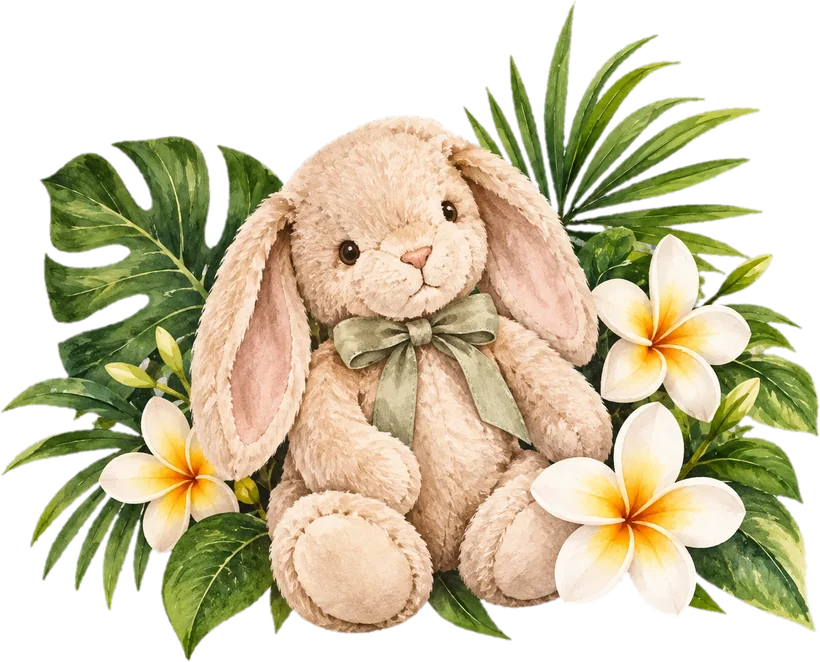
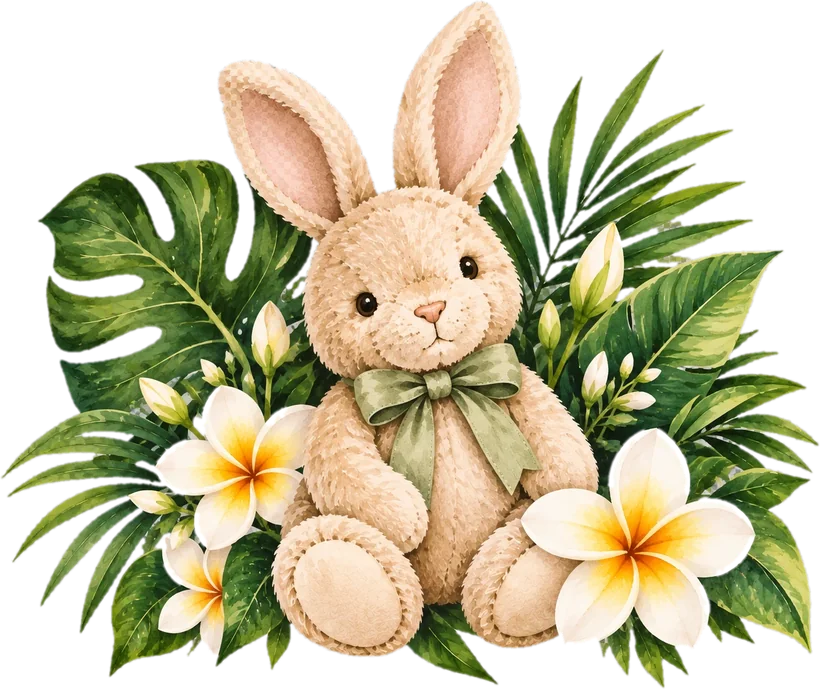
Adults-only card: the ears-up bunny, matching the FAQ
Claude-Session: https://claude.ai/code/session_01GqK2ENqeRUwQmtgcSZFd9X

diff --git a/index.html b/index.html
@@ -923,7 +923,7 @@ html.has-lightbox{overflow:hidden}
 <section class="section" id="adults">
   <div class="inner">
     <span class="eyebrow">05 — A note on children</span>
-    <img class="arch-art" data-src="assets/adults-bunny.webp" alt="" width="820" height="662" loading="lazy" decoding="async">
+    <img class="arch-art" data-src="assets/adults-bunny.webp" alt="" width="820" height="689" loading="lazy" decoding="async">
     <h2>Adults only</h2>
     <p class="lede">With love for all the little ones in our lives, our wedding weekend will be an adults-only celebration. We hope the occasion feels like a little holiday for the grown-ups, too.</p>
     <p style="max-width:52ch;margin-left:auto;margin-right:auto">The weekend runs late, the cliffs are real, and the bar never quite closes. We would rather you had a few days that felt like a holiday of your own. We've kept the guest list to adults, and we hope you'll take that as an invitation to sleep in.</p>
